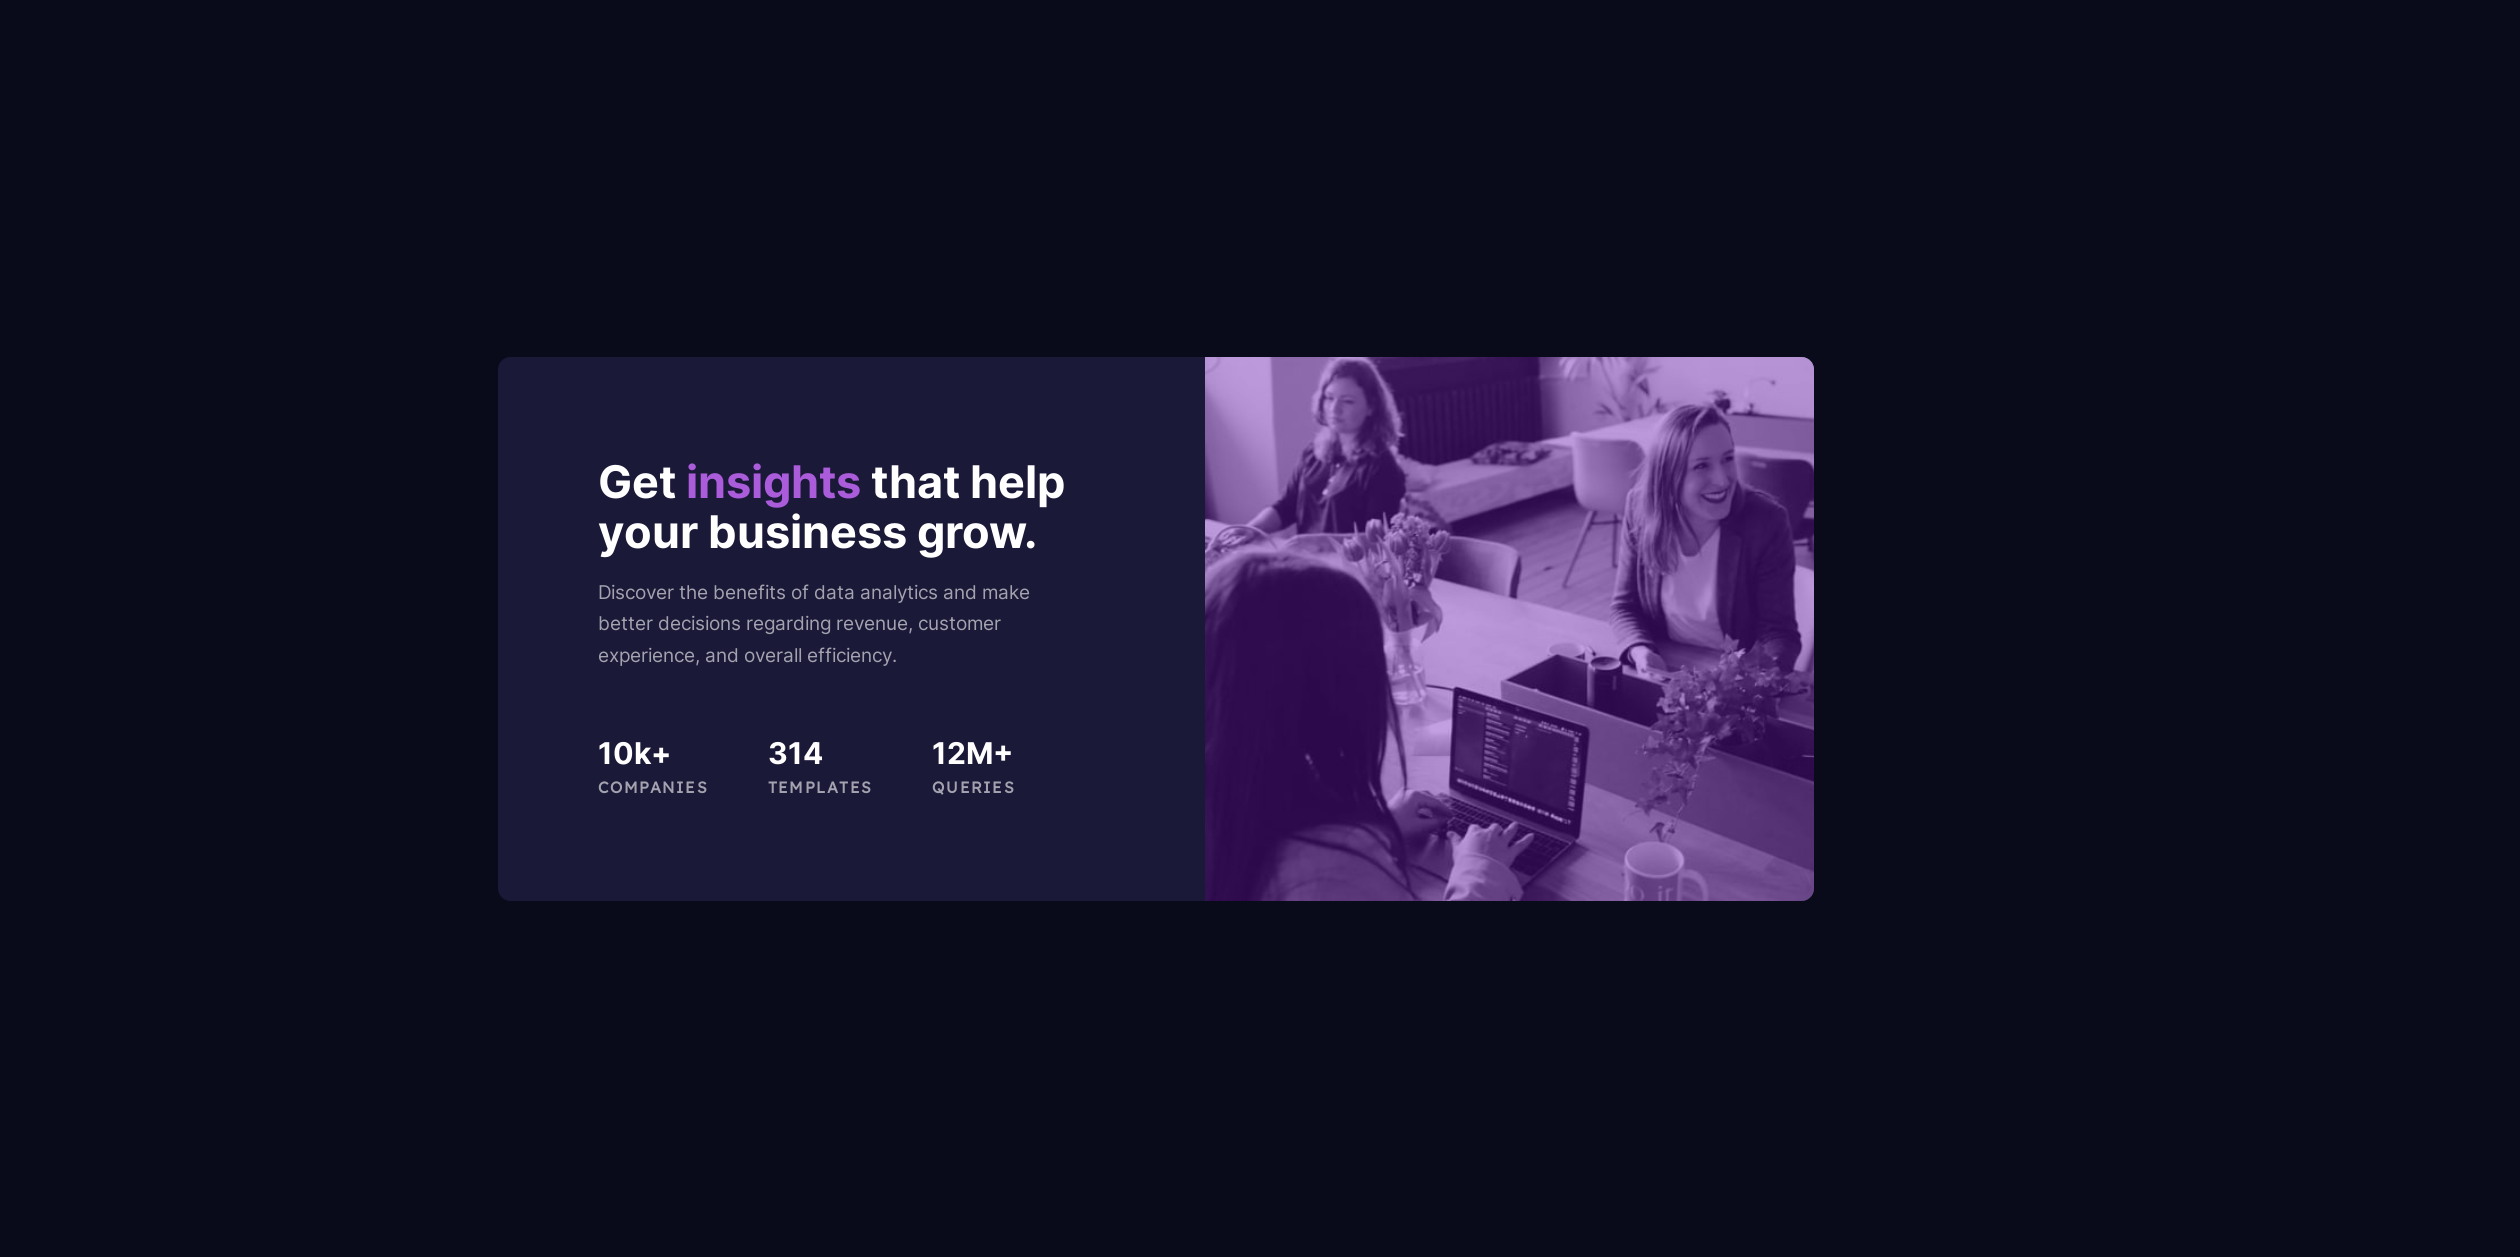
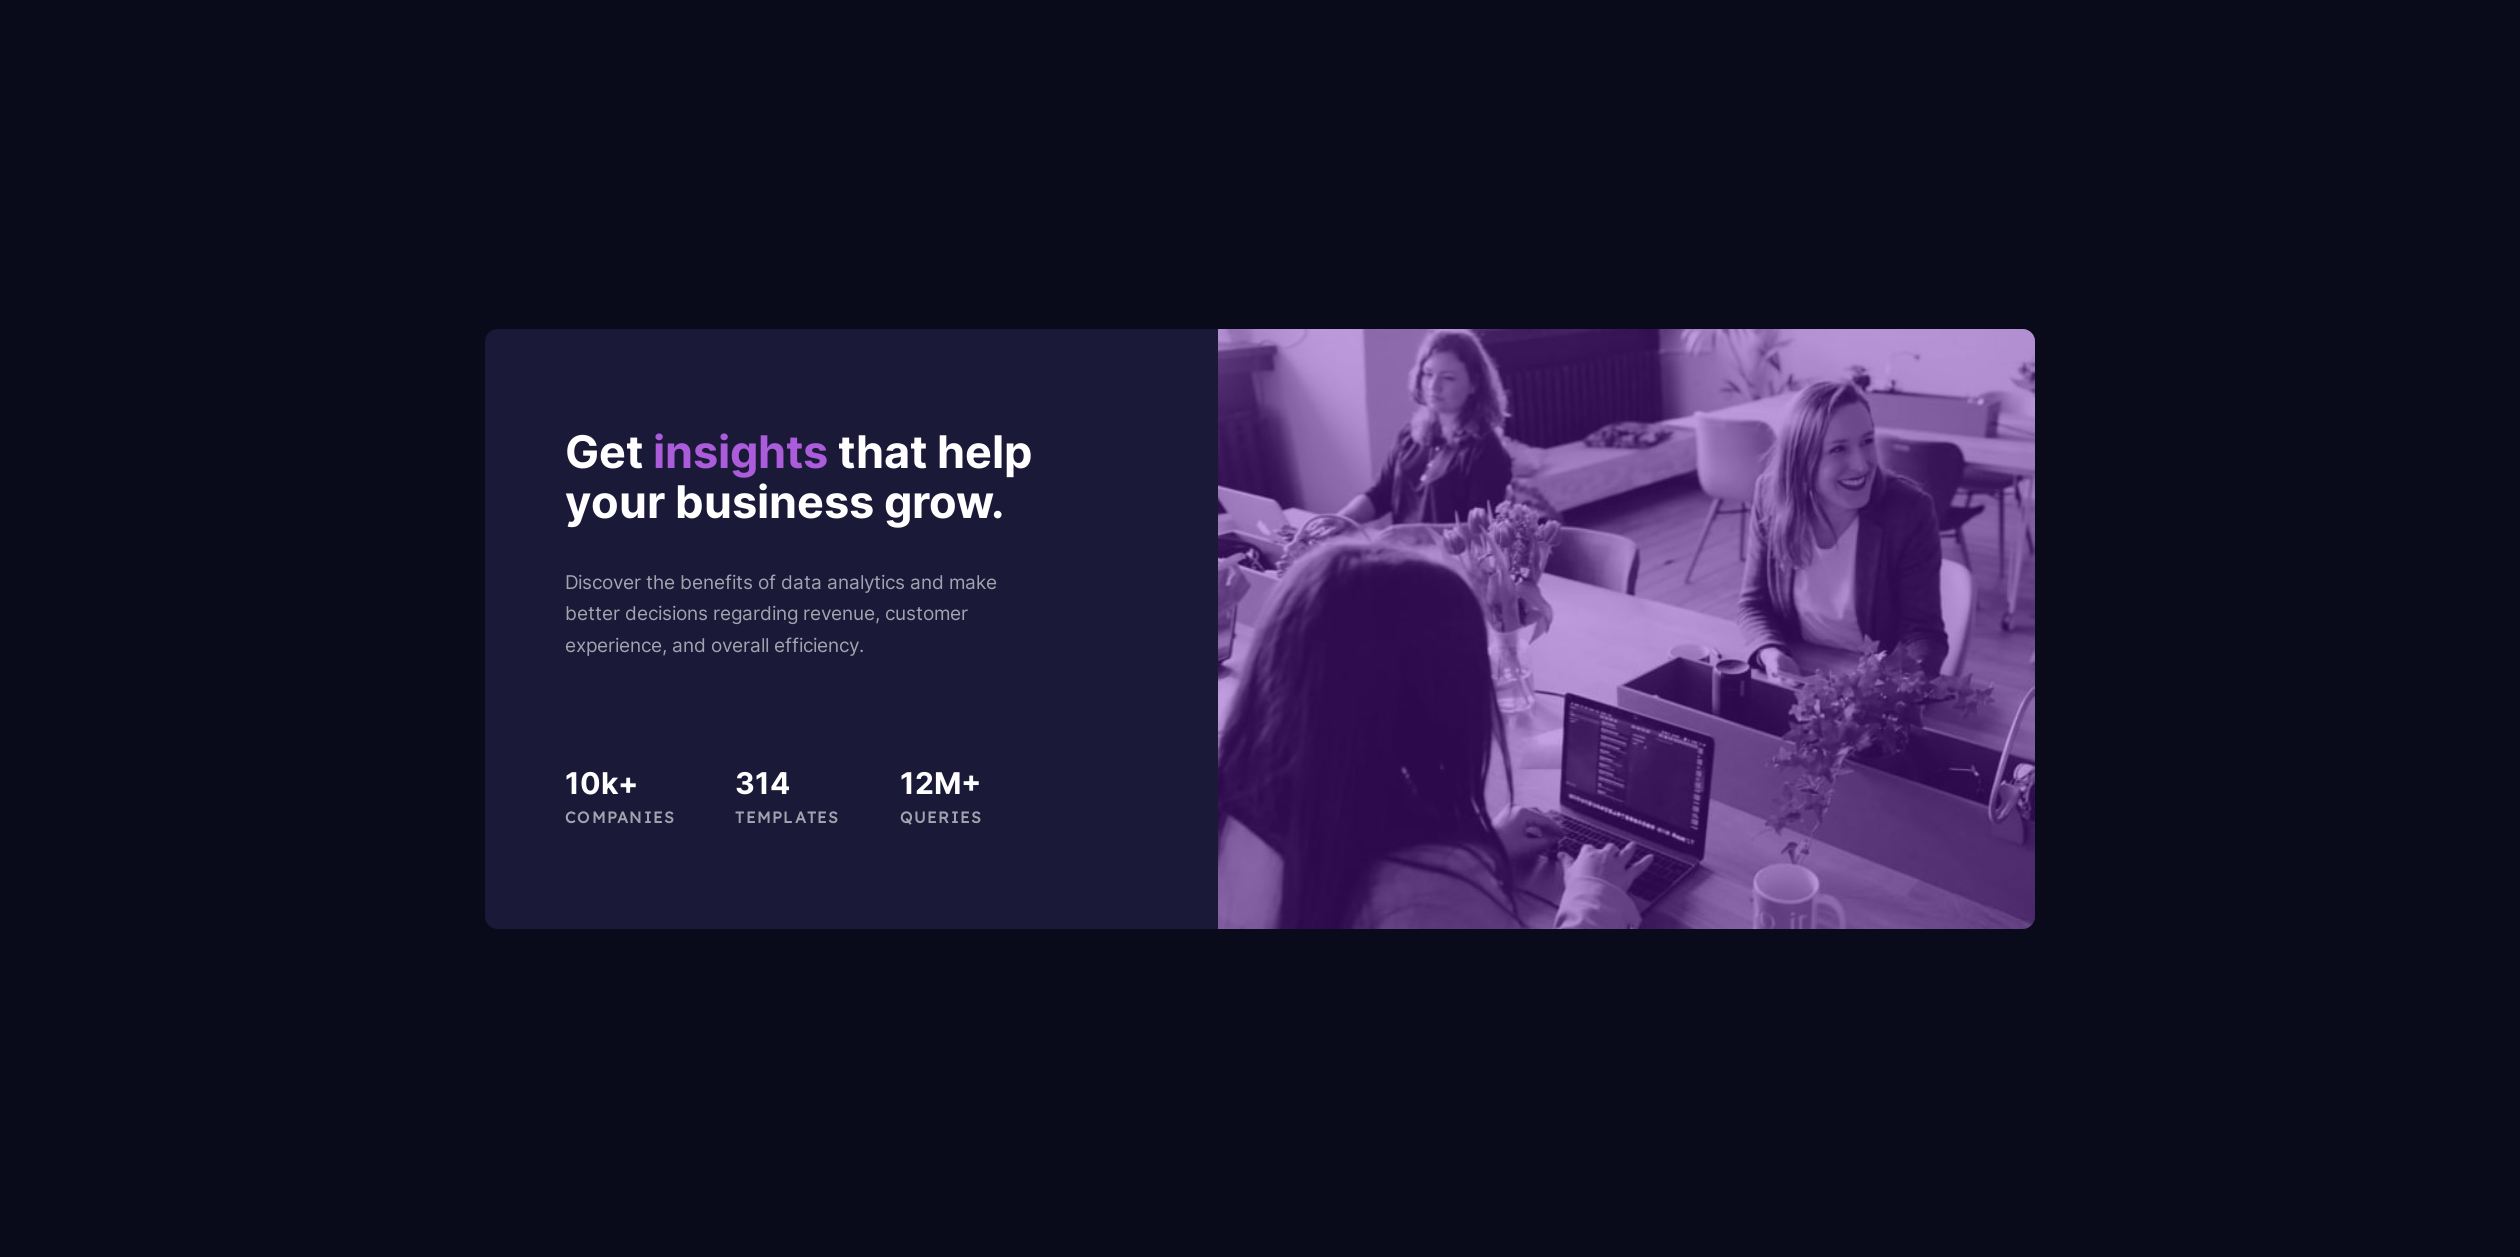
I think I finally got it

Changed region(s): [[0.1857, 0.2482, 0.8048, 0.7446]]

diff --git a/stats-preview-card-component/style.css b/stats-preview-card-component/style.css
@@ -136,14 +136,16 @@ body {
 
 @media screen and (min-width: 35em) {
   .card {
-    width: 80%;
     max-width: 1350px;
     flex-direction: row-reverse;
   }
   .card__content {
-    max-width: 550px;
+    justify-content: center;
+    max-width: 510px;
     text-align: left;
-    padding: 5rem;
+    gap: 2rem;
+    padding: 4rem;
+    margin-right: 60px;
   }
   .card__title {
     font-size: var(--fs-heading-large);
@@ -152,7 +154,7 @@ body {
     flex-direction: row;
     align-items: center;
     gap: 3rem;
-    margin-top: 2rem;
+    margin-top: 3rem;
     padding: 0;
   }
 }
